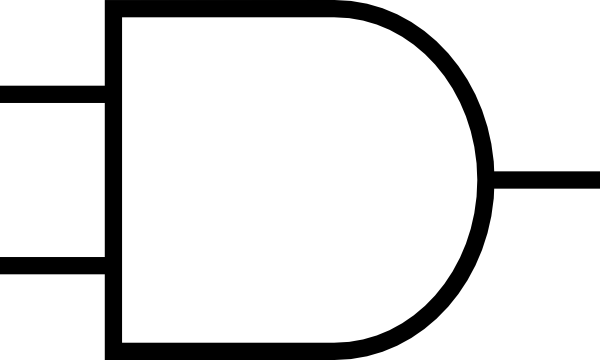
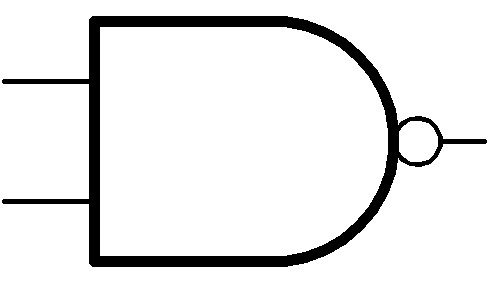
Arrumado codigo e colocada imagens corretas

Changed region(s): [[0.0, 0.0, 1.0, 1.0]]

diff --git a/src/main/java/br/pro/hashi/ensino/desagil/rafaelogic/view/LogicPortView.java b/src/main/java/br/pro/hashi/ensino/desagil/rafaelogic/view/LogicPortView.java
@@ -31,7 +31,7 @@ public class LogicPortView extends Painel implements ActionListener, MouseListen
 	private Image image;
 	
 	public LogicPortView(Gate gate){
-		super(245,300);
+		super(245,250);
 		
 		this.gate = gate;
 		
@@ -46,12 +46,9 @@ public class LogicPortView extends Painel implements ActionListener, MouseListen
 		add(entradaLabel, 10, 10, 75, 25);
 		add(saidaLabel, 10, 140, 150, 25);
 		add(checkIn1, 10, 45, 75, 25);
-		add(checkIn2, 10, 165, 150, 25);
+		add(checkIn2, 10, 175, 150, 25);
 		
-		add(checkOut, 10, 265, 75, 25); // O checkout vai ser o led, entao saira daqui
-
-		
-		
+				
 		//Caso o Gate seja tamanho 2
 		if(gate.getSize() == 1){
 			add(entradaLabel);
@@ -71,11 +68,15 @@ public class LogicPortView extends Painel implements ActionListener, MouseListen
 		checkIn1.addActionListener(this);
 		checkIn2.addActionListener(this);
 		
-		//Definir o checkbot de resultado como nao responsivo ao usuario
-		//checkOut.setEnabled(false);
-		
 		update();
 		
+		color = Color.BLACK;
+		
+		String path = "/" + gate.toString() + ".png";
+		URL url = getClass().getResource(path);
+		image = new ImageIcon(url).getImage();
+		
+		addMouseListener(this);
 	}
 	
 	private void update(){
@@ -172,7 +173,7 @@ public class LogicPortView extends Painel implements ActionListener, MouseListen
 
 		// Desenha retangulo (mudar para circulo)
 		g.setColor(color);
-		g.fillOval(195, 80, 40, 40);
+		g.fillOval(195, 80, 30, 30);
 
 		getToolkit().sync();
     }
